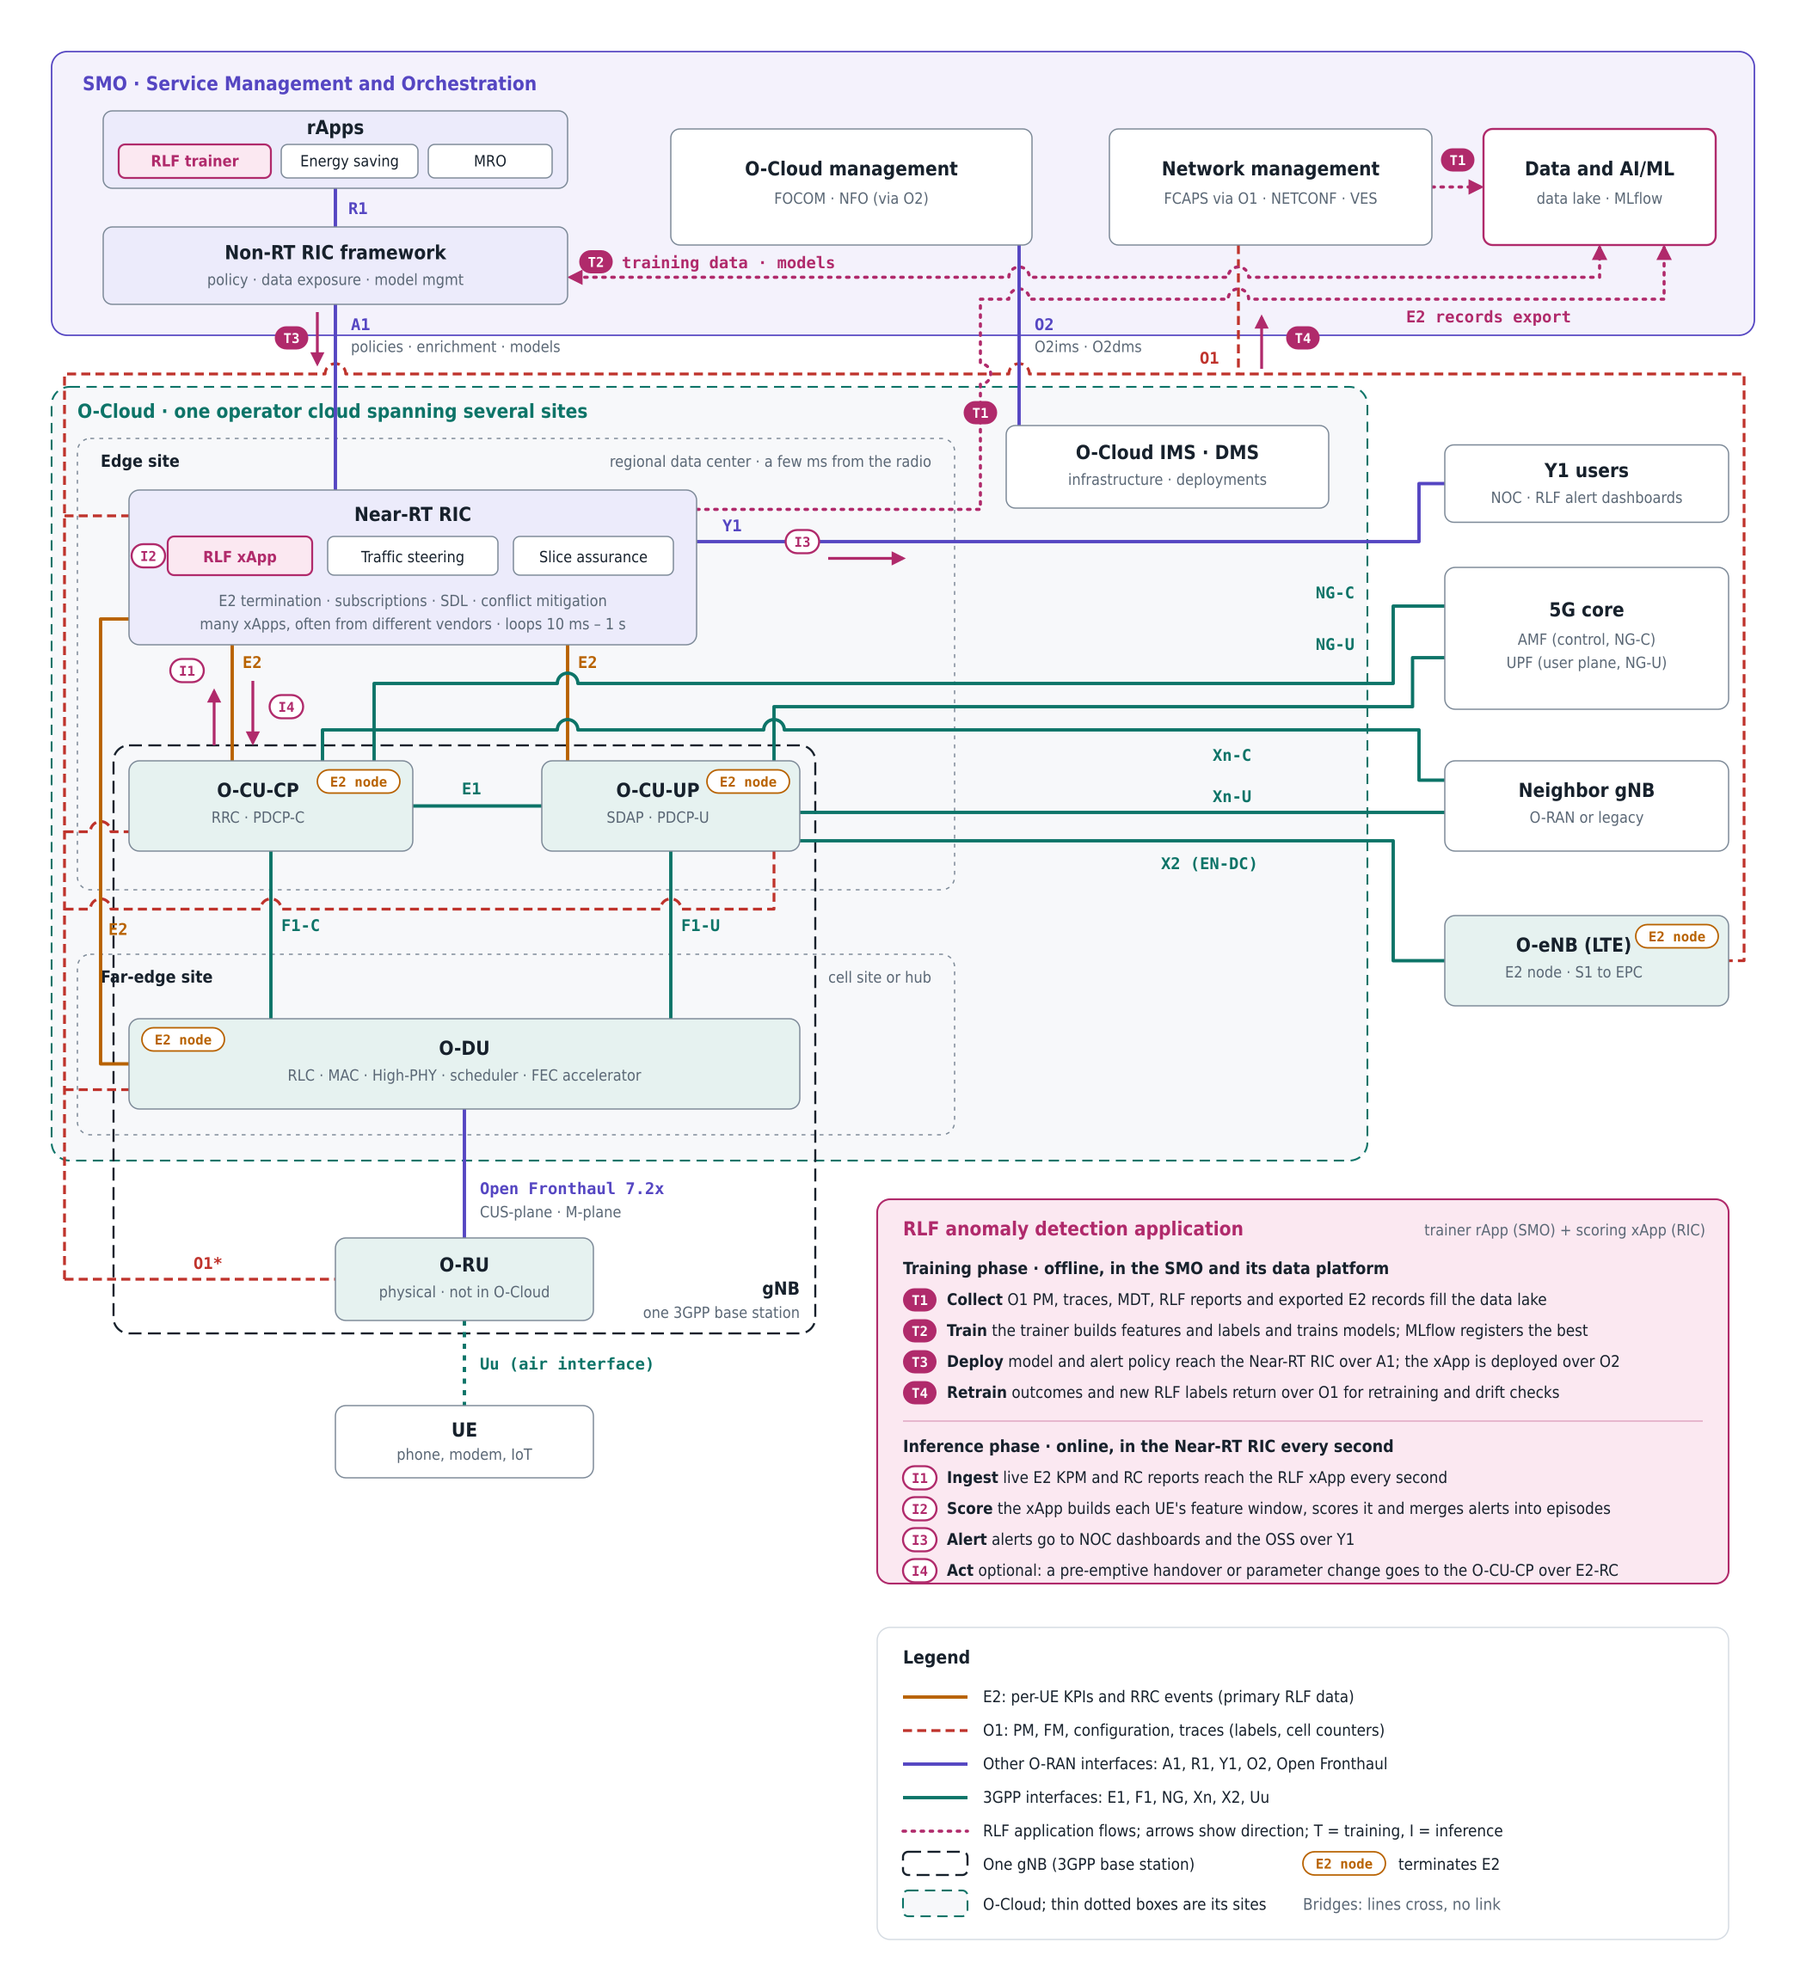
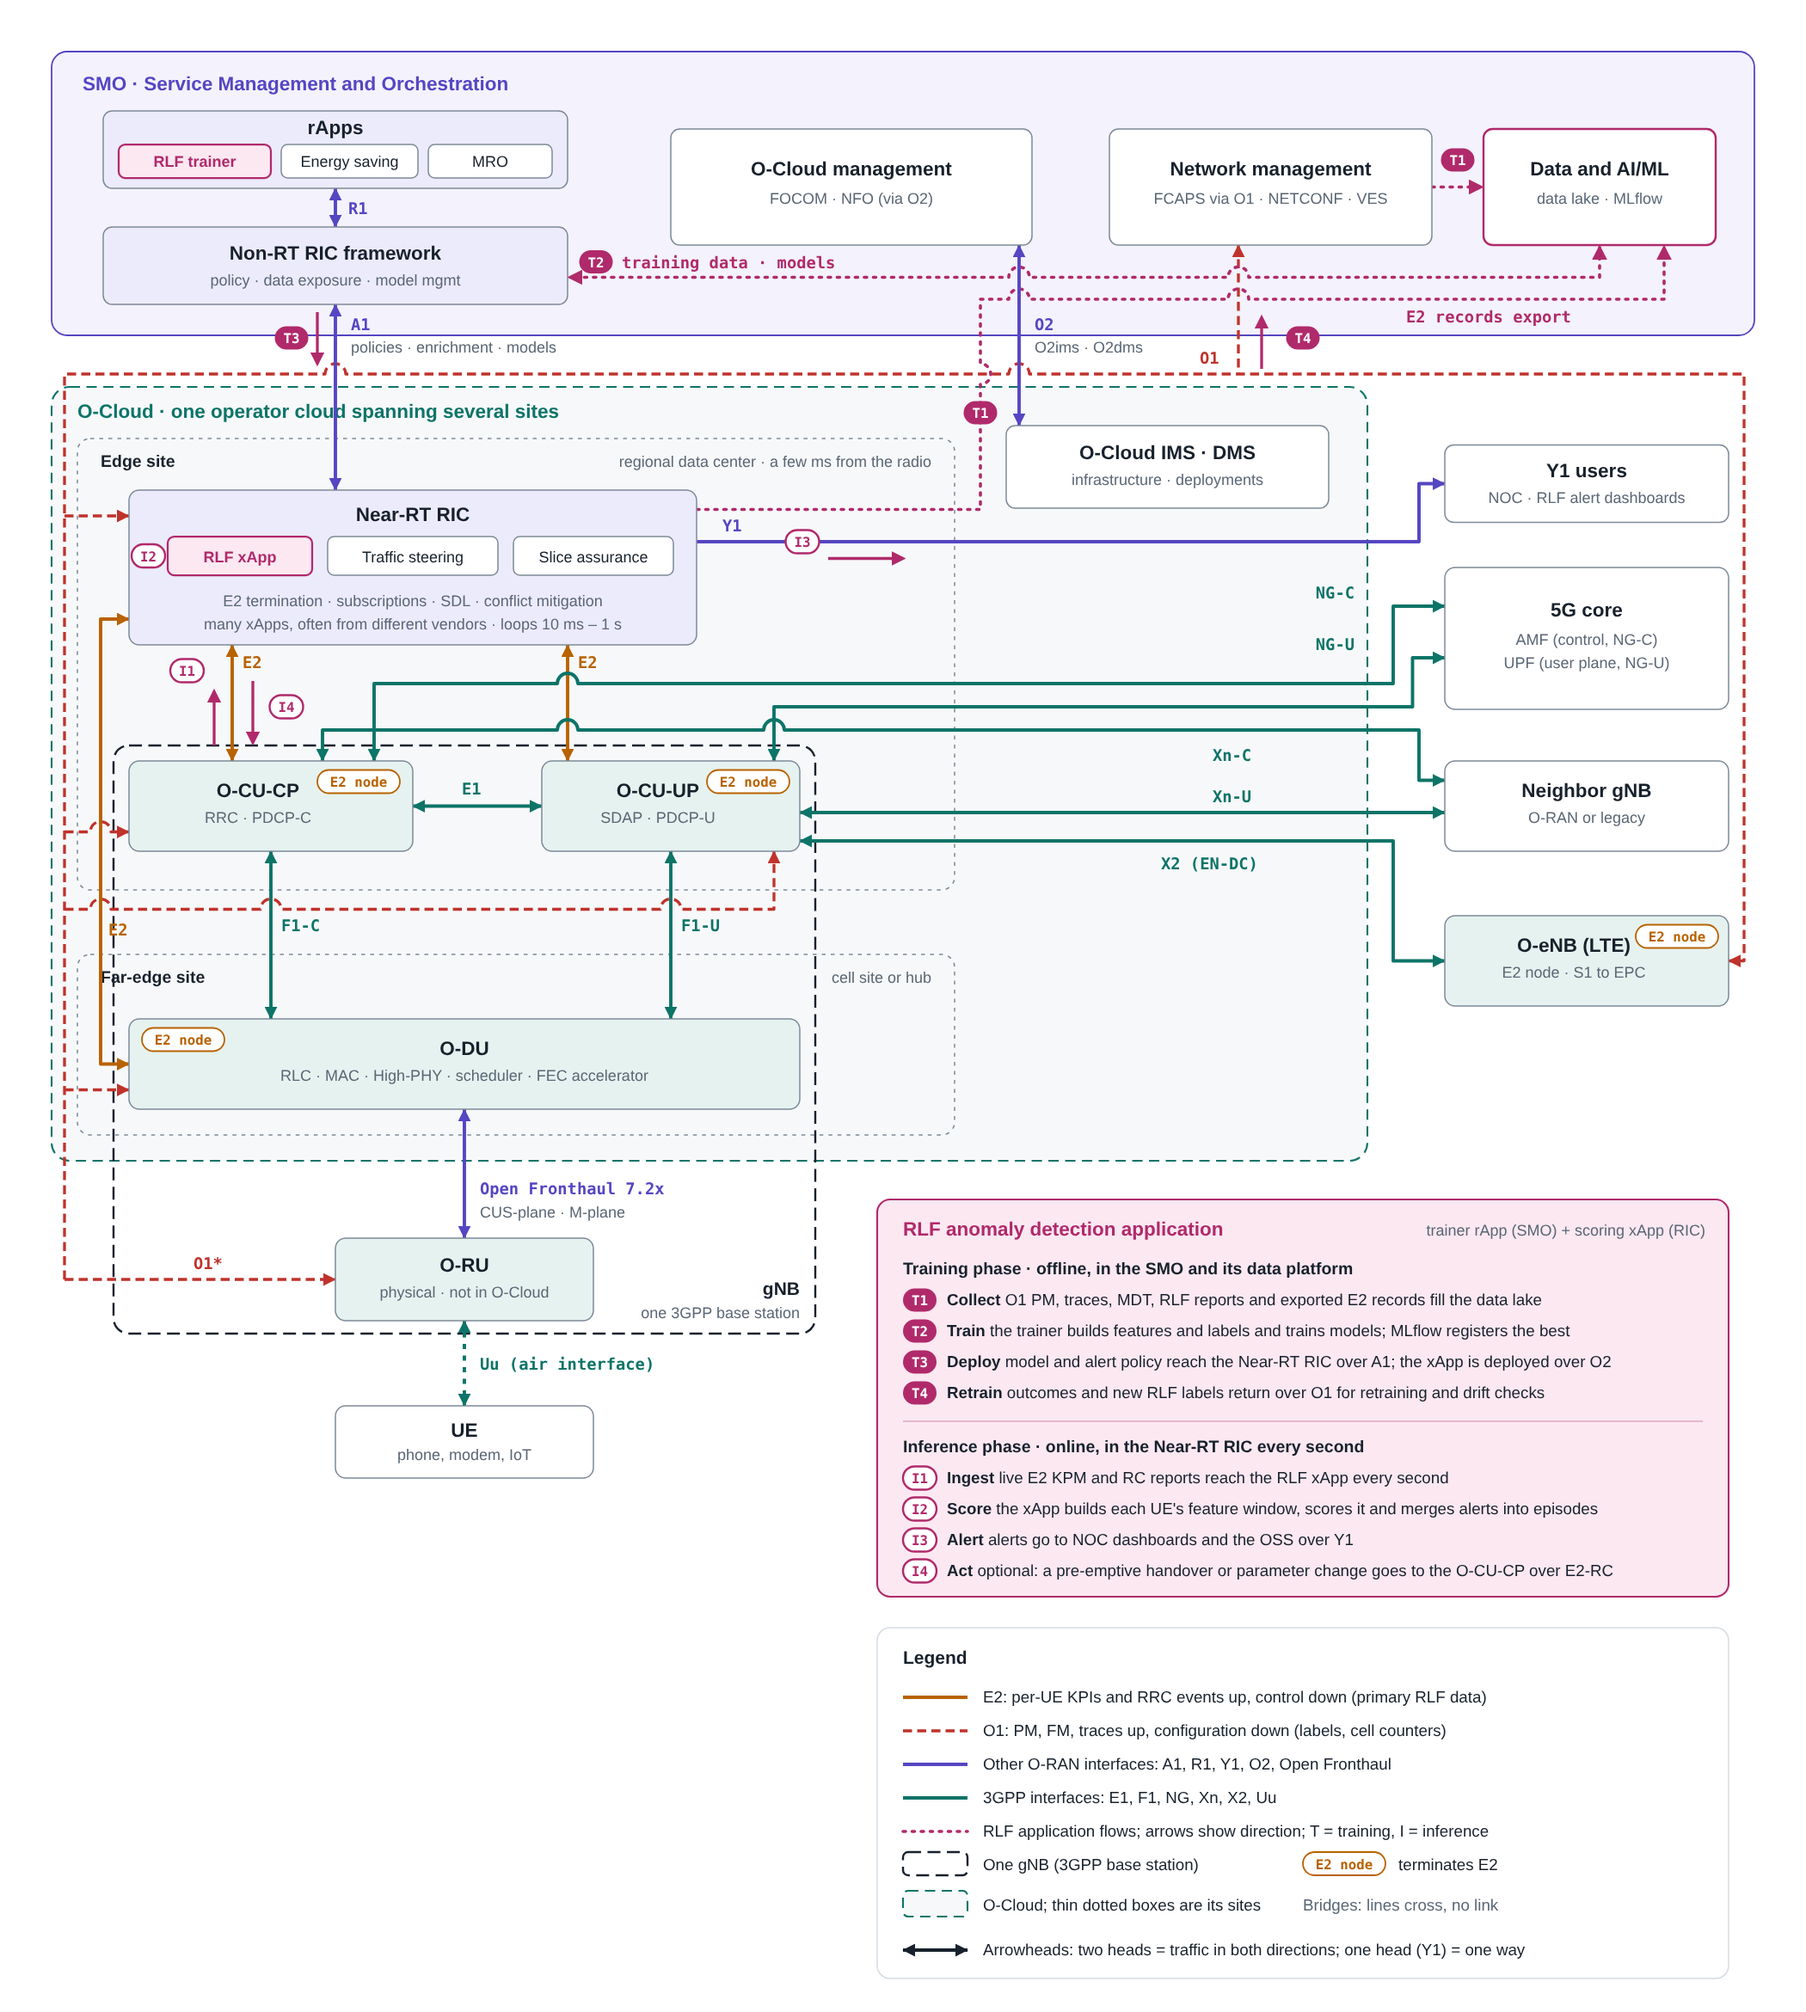
docs: add direction arrows to the RLF application diagram
Claude-Session: https://claude.ai/code/session_014H78Dtjenme3cuPTXXbgdt

diff --git a/README.md b/README.md
@@ -139,7 +139,7 @@ The RLF anomaly detection application is not one box but two cooperating compone
 
 ![Where the RLF anomaly detection application sits in the O-RAN architecture](docs/rlf-application-architecture.png)
 
-*Pink marks its components (the RLF trainer rApp in the SMO, the data and MLflow platform, and the RLF xApp on the Near-RT RIC) and its own data flows. Filled markers T1 to T4 are the training phase, including the collection of training data; outlined markers I1 to I4 are the inference phase; arrows show the direction of each flow. The steps are explained in the tables below. A vector version is in [`docs/rlf-application-architecture.svg`](docs/rlf-application-architecture.svg).*
+*Pink marks its components (the RLF trainer rApp in the SMO, the data and MLflow platform, and the RLF xApp on the Near-RT RIC) and its own data flows. Filled markers T1 to T4 are the training phase, including the collection of training data; outlined markers I1 to I4 are the inference phase; arrows show the direction of each flow, and the O-RAN and 3GPP interfaces also carry arrowheads (two heads where traffic runs both ways, one head for Y1). The steps are explained in the tables below. A vector version is in [`docs/rlf-application-architecture.svg`](docs/rlf-application-architecture.svg).*
 
 | Component | Location | Job |
 | --- | --- | --- |
